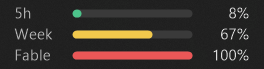
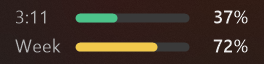
Show two bars (session + weekly) with a roomier layout
Only the two plan-wide limits get a row now: the 5h session and the
weekly all-models limit. parseBars whitelists those kinds in a fixed
order, so per-model weekly limits and unknown kinds are never shown.

With one row fewer, rows are taller: 9pt text, percent in semibold,
slightly thicker bars, same width. When the weekly limit is hit the
whole row becomes the reset date. The tray icon has two bars and is
drawn at the small-icon size so it stays sharp when scaled.

build.bat locates Visual Studio through vswhere instead of a hard-coded
VS 2022 Community path.

diff --git a/native/main.cpp b/native/main.cpp
@@ -1,5 +1,5 @@
 // ClaudeWidget - native Win32 taskbar usage overlay.
-// Shows Claude subscription usage as 3 stacked bars (5h session / weekly all / weekly Fable).
+// Shows Claude subscription usage as 2 stacked bars (5h session / weekly).
 // Topmost tool window locked into the taskbar band; ~single-digit MB, ~0% idle CPU.
 #define WIN32_LEAN_AND_MEAN
 #include <windows.h>
@@ -348,13 +348,6 @@ static void saveConfig() {
 }
 
 // ---- parse usage response into bars ---------------------------------------
-static std::wstring scopedLabel(const JVal& l) {
-    if (auto* sc = l.get("scope"); sc && sc->isObj())
-        if (auto* mo = sc->get("model"); mo && mo->isObj())
-            if (auto* dn = mo->get("display_name"); dn && dn->isStr())
-                return u8towide(dn->s);
-    return L"Model";
-}
 static void addUtil(const JVal& root, const char* prop, const wchar_t* label, std::vector<BarData>& out) {
     auto* el = root.get(prop);
     if (!el || !el->isObj()) return;
@@ -367,21 +360,23 @@ static std::vector<BarData> parseBars(const std::string& json) {
     std::vector<BarData> out;
     JVal root; JParser jp(json);
     if (!jp.parse(root) || !root.isObj()) return out;
+    // Only the two plan-wide limits get a row, in this order; per-model weekly limits
+    // (kind "weekly_scoped") and any other kind are deliberately not shown.
     if (auto* limits = root.get("limits"); limits && limits->isArr()) {
-        for (auto& l : limits->a) {
-            if (out.size() == 4) break;
-            if (!l.isObj()) continue;
-            std::string kind;
-            if (auto* k = l.get("kind"); k && k->isStr()) kind = k->s;
-            BarData b;
-            if (kind == "session") b.label = L"5h";
-            else if (kind == "weekly_all") b.label = L"Week";
-            else if (kind == "weekly_scoped") b.label = scopedLabel(l);
-            else b.label = u8towide(kind);
-            if (auto* p = l.get("percent"); p && p->isNum()) b.percent = (int)(p->n + 0.5);
-            if (auto* s = l.get("severity"); s && s->isStr()) b.severity = s->s;
-            if (auto* r = l.get("resets_at"); r && r->isStr()) b.resetsFt = isoToFt(r->s);
-            out.push_back(std::move(b));
+        static const struct { const char* kind; const wchar_t* label; } rows[] = {
+            { "session", L"5h" }, { "weekly_all", L"Week" } };
+        for (auto& row : rows) {
+            for (auto& l : limits->a) {
+                if (!l.isObj()) continue;
+                auto* k = l.get("kind");
+                if (!k || !k->isStr() || k->s != row.kind) continue;
+                BarData b; b.label = row.label;
+                if (auto* p = l.get("percent"); p && p->isNum()) b.percent = (int)(p->n + 0.5);
+                if (auto* s = l.get("severity"); s && s->isStr()) b.severity = s->s;
+                if (auto* r = l.get("resets_at"); r && r->isStr()) b.resetsFt = isoToFt(r->s);
+                out.push_back(std::move(b));
+                break;
+            }
         }
     }
     if (out.empty()) { // legacy shape
@@ -568,7 +563,7 @@ static void updateTooltipRect();
 static void paintLayered();
 static void applySize(int n) {
     if (n < 1) n = 1;
-    int w = S(176), h = n * S(14) + S(4);
+    int w = S(176), h = n * S(19) + S(4);
     SetWindowPos(g_hwnd, nullptr, 0, 0, w, h, SWP_NOMOVE | SWP_NOZORDER | SWP_NOACTIVATE);
     updateTooltipRect();
     paintLayered();
@@ -636,13 +631,13 @@ static void updateTooltip() {
 }
 
 static HICON makeTrayIcon() {
-    // 3 coral bars on a 16x16 transparent icon, drawn via GDI+.
-    Bitmap bmp(16, 16, PixelFormat32bppARGB);
+    // 2 coral bars on a transparent icon, drawn via GDI+ at the small-icon size (crisp at any scaling).
+    int s = imax(16, GetSystemMetrics(SM_CXSMICON));
+    Bitmap bmp(s, s, PixelFormat32bppARGB);
     { Graphics g(&bmp); g.Clear(Color(0, 0, 0, 0));
       SolidBrush br(Color(255, 217, 119, 87));
-      g.FillRectangle(&br, 1, 3, 13, 2);
-      g.FillRectangle(&br, 1, 7, 9, 2);
-      g.FillRectangle(&br, 1, 11, 11, 2);
+      g.FillRectangle(&br, MulDiv(1, s, 16), MulDiv(3, s, 16), MulDiv(13, s, 16), MulDiv(3, s, 16));
+      g.FillRectangle(&br, MulDiv(1, s, 16), MulDiv(10, s, 16), MulDiv(9, s, 16), MulDiv(3, s, 16));
     }
     HICON ico = nullptr; bmp.GetHICON(&ico);
     return ico;
@@ -741,7 +736,7 @@ static long long fiveHourMinLeft() {
 static bool atLimit(const BarData& b) {
     return b.percent >= 100 || b.severity == "exceeded" || b.severity == "rejected";
 }
-// Non-5h rows (Week, Fable) swap bar + % for the reset date while their limit is hit.
+// The weekly row shows its reset date instead of label + bar + % while its limit is hit.
 static bool showsResetDate(const BarData& b) {
     return b.label != L"5h" && atLimit(b) && b.resetsFt > nowFt();
 }
@@ -772,7 +767,7 @@ static void drawContent(Graphics& g, int w, int h) {
     g.Clear(Color(1, 0, 0, 0));
 
     FontFamily ff(L"Segoe UI");
-    REAL px = 7.5f * g_dpi / 72.0f;
+    REAL px = 9.0f * g_dpi / 72.0f;
     Font font(&ff, px, FontStyleRegular, UnitPixel);
 
     if (g_bars.empty()) {
@@ -783,9 +778,11 @@ static void drawContent(Graphics& g, int w, int h) {
         g.DrawString(t.c_str(), -1, &font, r, &sf, &br);
         return;
     }
+    FontFamily ffSb(L"Segoe UI Semibold");   // percent values; plain Segoe UI if the face is missing
+    Font pctFont(ffSb.IsAvailable() ? &ffSb : &ff, px, FontStyleRegular, UnitPixel);
     int n = (int)g_bars.size();
     int rowH = (h - S(4)) / n;
-    int top = S(2), labelW = S(36), pctW = S(34), pad = S(8);
+    int top = S(2), labelW = S(38), pctW = S(36), pad = S(8);
     StringFormat sfL; sfL.SetLineAlignment(StringAlignmentCenter); sfL.SetAlignment(StringAlignmentNear);
     sfL.SetTrimming(StringTrimmingEllipsisCharacter); sfL.SetFormatFlags(StringFormatFlagsNoWrap);
     StringFormat sfR; sfR.SetLineAlignment(StringAlignmentCenter); sfR.SetAlignment(StringAlignmentFar);
@@ -812,6 +809,14 @@ static void drawContent(Graphics& g, int w, int h) {
             g.DrawString(txt, -1, &font, rr, &sfL, &armBr);
             continue;
         }
+        // weekly row at its limit: the whole row becomes the reset date (red live, grey stale)
+        if (showsResetDate(b)) {
+            std::wstring txt = L"resets " + formatResetDate(b.resetsFt);
+            RectF rr((REAL)pad, (REAL)y, (REAL)(w - pad * 2), (REAL)rowH);
+            SolidBrush rdBr(barColor(b));
+            g.DrawString(txt.c_str(), -1, &font, rr, &sfL, &rdBr);
+            continue;
+        }
         // 5h row: label shows time-to-reset as H:MM; falls back to "5h" when unknown/past
         RectF lr((REAL)pad, (REAL)y, (REAL)labelW, (REAL)rowH);
         const wchar_t* lbl = b.label.c_str();
@@ -821,20 +826,13 @@ static void drawContent(Graphics& g, int w, int h) {
             if (m >= 0) { wsprintfW(cd, L"%d:%02d", (int)(m / 60), (int)(m % 60)); lbl = cd; }
         }
         g.DrawString(lbl, -1, &font, lr, &sfL, &labelBr);
-        int barX = pad + labelW + S(4);
-        if (showsResetDate(b)) {
-            std::wstring txt = L"resets " + formatResetDate(b.resetsFt);
-            RectF rr((REAL)barX, (REAL)y, (REAL)(w - pad - barX), (REAL)rowH);
-            SolidBrush rdBr(barColor(b));
-            g.DrawString(txt.c_str(), -1, &font, rr, &sfL, &rdBr);
-            continue;
-        }
         wchar_t pcts[16]; wsprintfW(pcts, L"%d%%", b.percent);
         RectF pr((REAL)(w - pctW - pad), (REAL)y, (REAL)pctW, (REAL)rowH);
-        SolidBrush pctBr(b.stale ? Color(255, 128, 128, 128) : Color(255, 220, 220, 220));
-        g.DrawString(pcts, -1, &font, pr, &sfR, &pctBr);
+        SolidBrush pctBr(b.stale ? Color(255, 128, 128, 128) : Color(255, 235, 235, 235));
+        g.DrawString(pcts, -1, &pctFont, pr, &sfR, &pctBr);
+        int barX = pad + labelW + S(4);
         int barW = (w - pctW - pad) - S(6) - barX;
-        int barH = S(5);
+        int barH = S(6);
         int barY = y + (rowH - barH) / 2;
         if (barW > barH) {
             fillPill(g, Color(255, 58, 58, 58), barX, barY, barW, barH);
@@ -1041,7 +1039,7 @@ static LRESULT CALLBACK WndProc(HWND hwnd, UINT msg, WPARAM wp, LPARAM lp) {
         return 0;
     case WM_DPICHANGED:
         g_dpi = HIWORD(wp);
-        applySize(g_bars.empty() ? 3 : (int)g_bars.size());
+        applySize(g_bars.empty() ? 2 : (int)g_bars.size());
         if (g_cfg.manualPosition) clampToTaskbar(); else positionOverTaskbar();
         paintLayered();
         return 0;
@@ -1150,7 +1148,7 @@ int WINAPI wWinMain(HINSTANCE hInst, HINSTANCE, PWSTR, int) {
     g_hwnd = CreateWindowExW(WS_EX_TOOLWINDOW | WS_EX_NOACTIVATE | WS_EX_TOPMOST | WS_EX_LAYERED,
         L"ClaudeWidgetWnd", L"Claude Usage", WS_POPUP, 0, 0, 10, 10, nullptr, nullptr, hInst, nullptr);
     g_dpi = GetDpiForWindow(g_hwnd);
-    applySize(g_bars.empty() ? 3 : (int)g_bars.size());
+    applySize(g_bars.empty() ? 2 : (int)g_bars.size());
     createTooltip();
     updateTooltip();
 

diff --git a/README.md b/README.md
@@ -1,16 +1,16 @@
 # Claude Usage Widget
 
-A tiny Windows 11 taskbar widget that shows your Claude subscription usage at a glance — three stacked bars: **5‑hour session**, **weekly (all models)**, and **weekly Fable**. Native Win32 + GDI+, no runtime dependencies, ~1 MB RAM and ~0 % idle CPU.
+A tiny Windows 11 taskbar widget that shows your Claude subscription usage at a glance — two stacked bars: **5‑hour session** and **weekly**. Native Win32 + GDI+, no runtime dependencies, ~1 MB RAM and ~0 % idle CPU.
 
 ![screenshot](screenshot.png)
 
-The bars go green → amber → red as you approach each limit. The session bar's label is a live countdown to its reset (`H:MM`, updated once a minute; shows `5h` when no reset time is known). When a weekly limit (all‑models or per‑model) is used up, its bar is replaced by the date and time it resets (e.g. `resets Tue 15 Sep 01:00`). The widget sits directly in your taskbar next to the system tray, is borderless, stays pinned to the taskbar band, and auto‑hides when a fullscreen app is on that monitor.
+The bars go green → amber → red as you approach each limit. The session bar's label is a live countdown to its reset (`H:MM`, updated once a minute; shows `5h` when no reset time is known). When the weekly limit is used up, its row is replaced by the date and time it resets (e.g. `resets Tue 15 Sep 01:00`). Only these two plan-wide limits are shown; per-model weekly limits are ignored. The widget sits directly in your taskbar next to the system tray, is borderless, stays pinned to the taskbar band, and auto‑hides when a fullscreen app is on that monitor.
 
 ## Requirements
 
 - **Windows 10/11 (x64)**
 - **Claude Code**, installed and logged in. The widget reads your OAuth token from `~/.claude/.credentials.json` (the same file Claude Code manages) — there are **no API keys to configure**.
-- To build: **Visual Studio 2022** with the *Desktop development with C++* workload (gives you MSVC + the Windows SDK).
+- To build: **Visual Studio 2022 or newer** with the *Desktop development with C++* workload (gives you MSVC + the Windows SDK).
 
 ## Build
 
@@ -20,7 +20,7 @@ cd Claude-Usage-Widget
 native\build.bat app\ClaudeWidget.exe
 ```
 
-`build.bat` runs `vcvars64.bat` and compiles a single self‑contained `app\ClaudeWidget.exe` (~230 KB, static CRT — no DLLs to ship). If your Visual Studio isn't the 2022 **Community** edition, edit the `vcvars64.bat` path at the top of `native\build.bat`.
+`build.bat` finds your Visual Studio with `vswhere`, runs its `vcvars64.bat` and compiles a single self‑contained `app\ClaudeWidget.exe` (~250 KB, static CRT — no DLLs to ship).
 
 Then run `app\ClaudeWidget.exe`. Right‑click the tray icon for options (Refresh, Start with Windows, Reset position, Quit). Drag the widget to reposition it along the taskbar.
 
